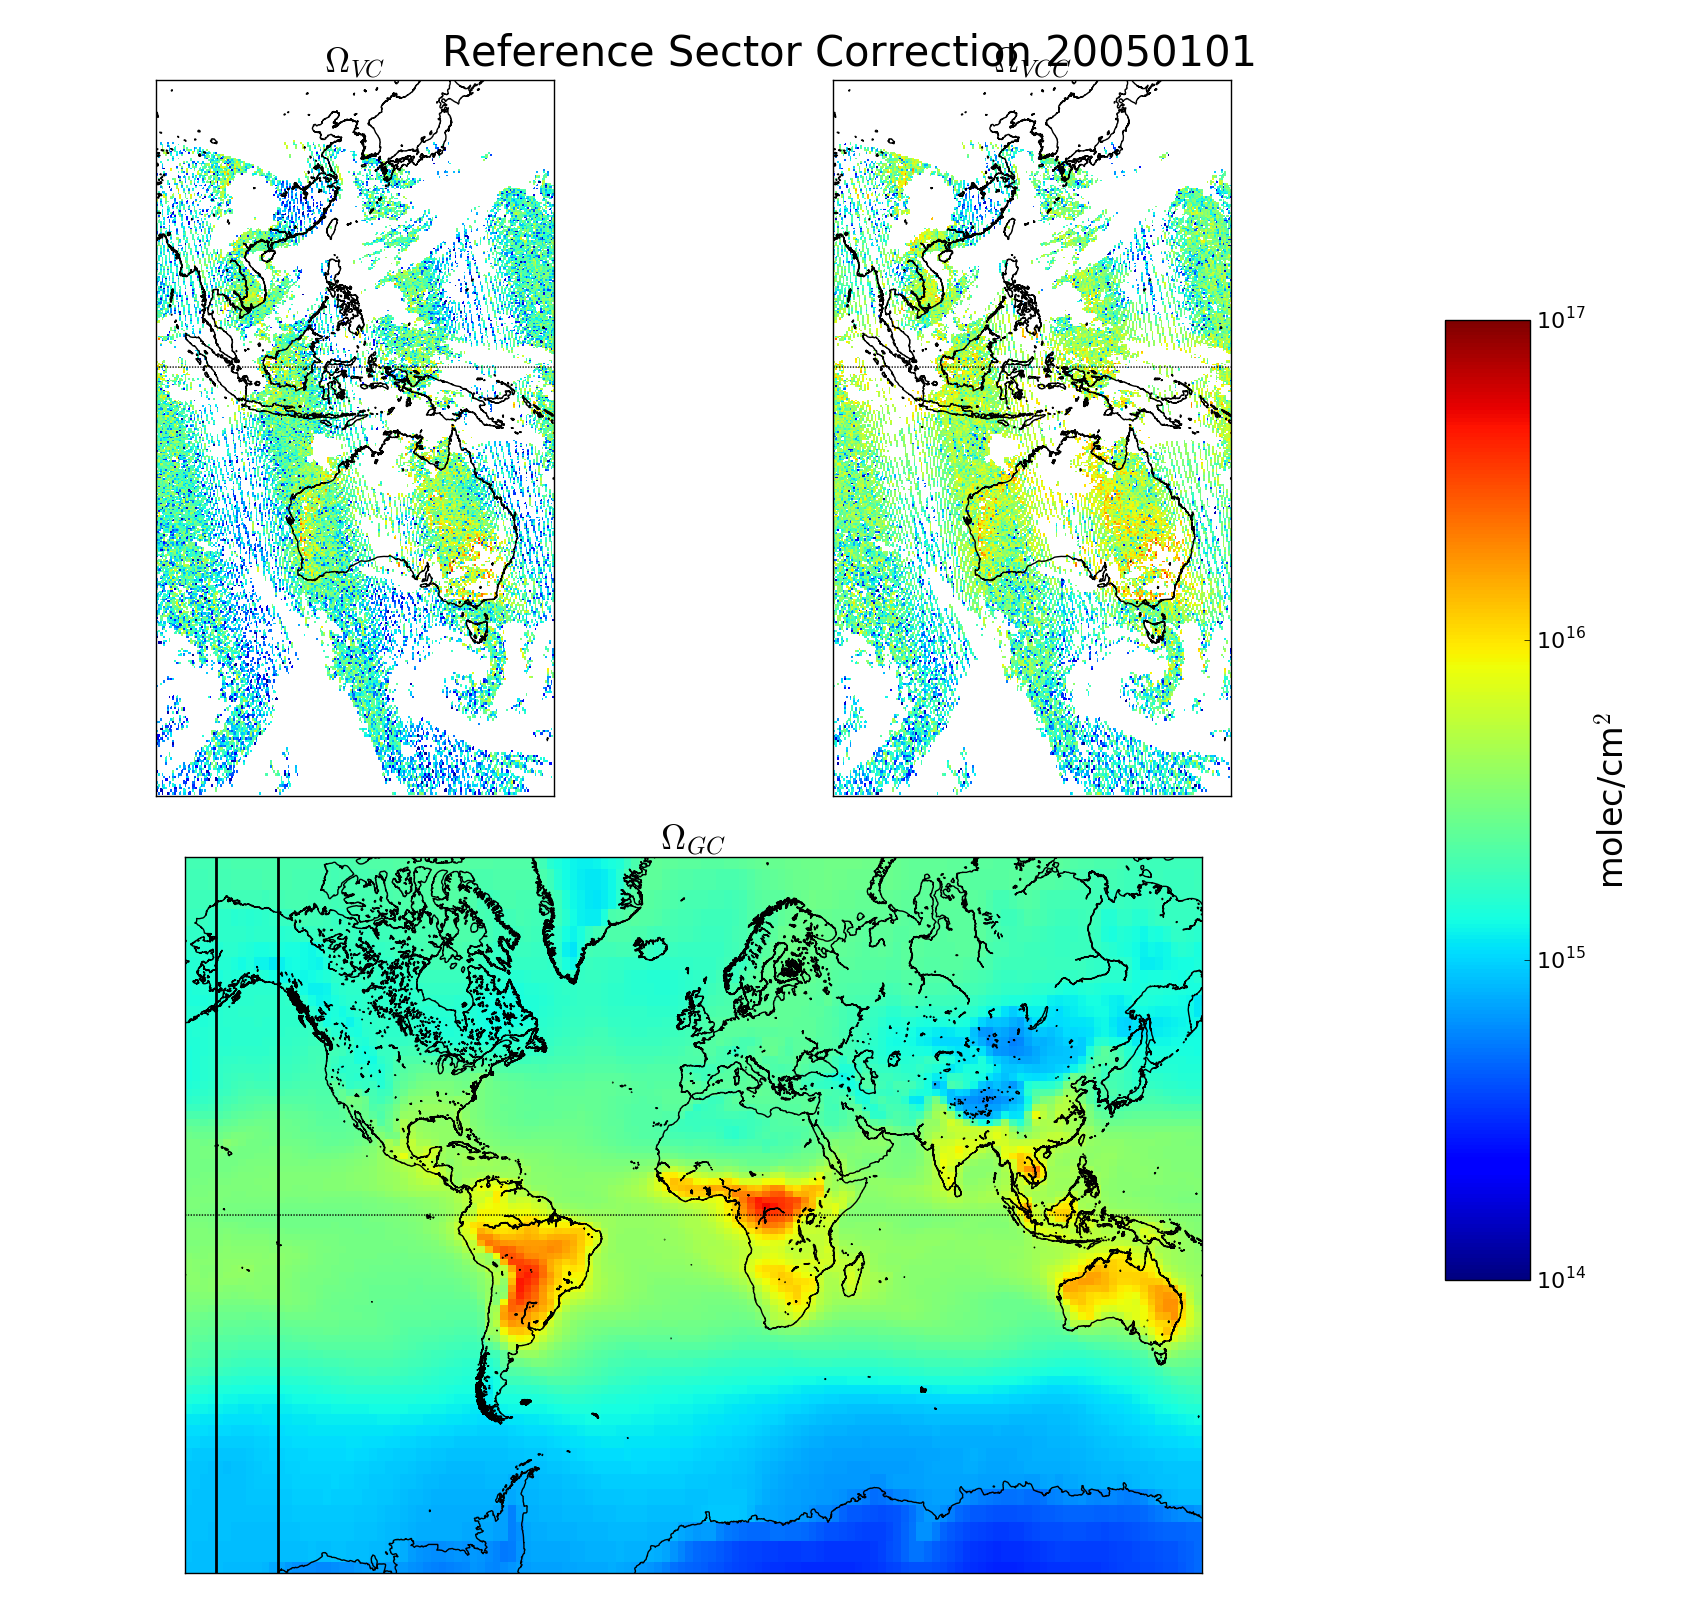
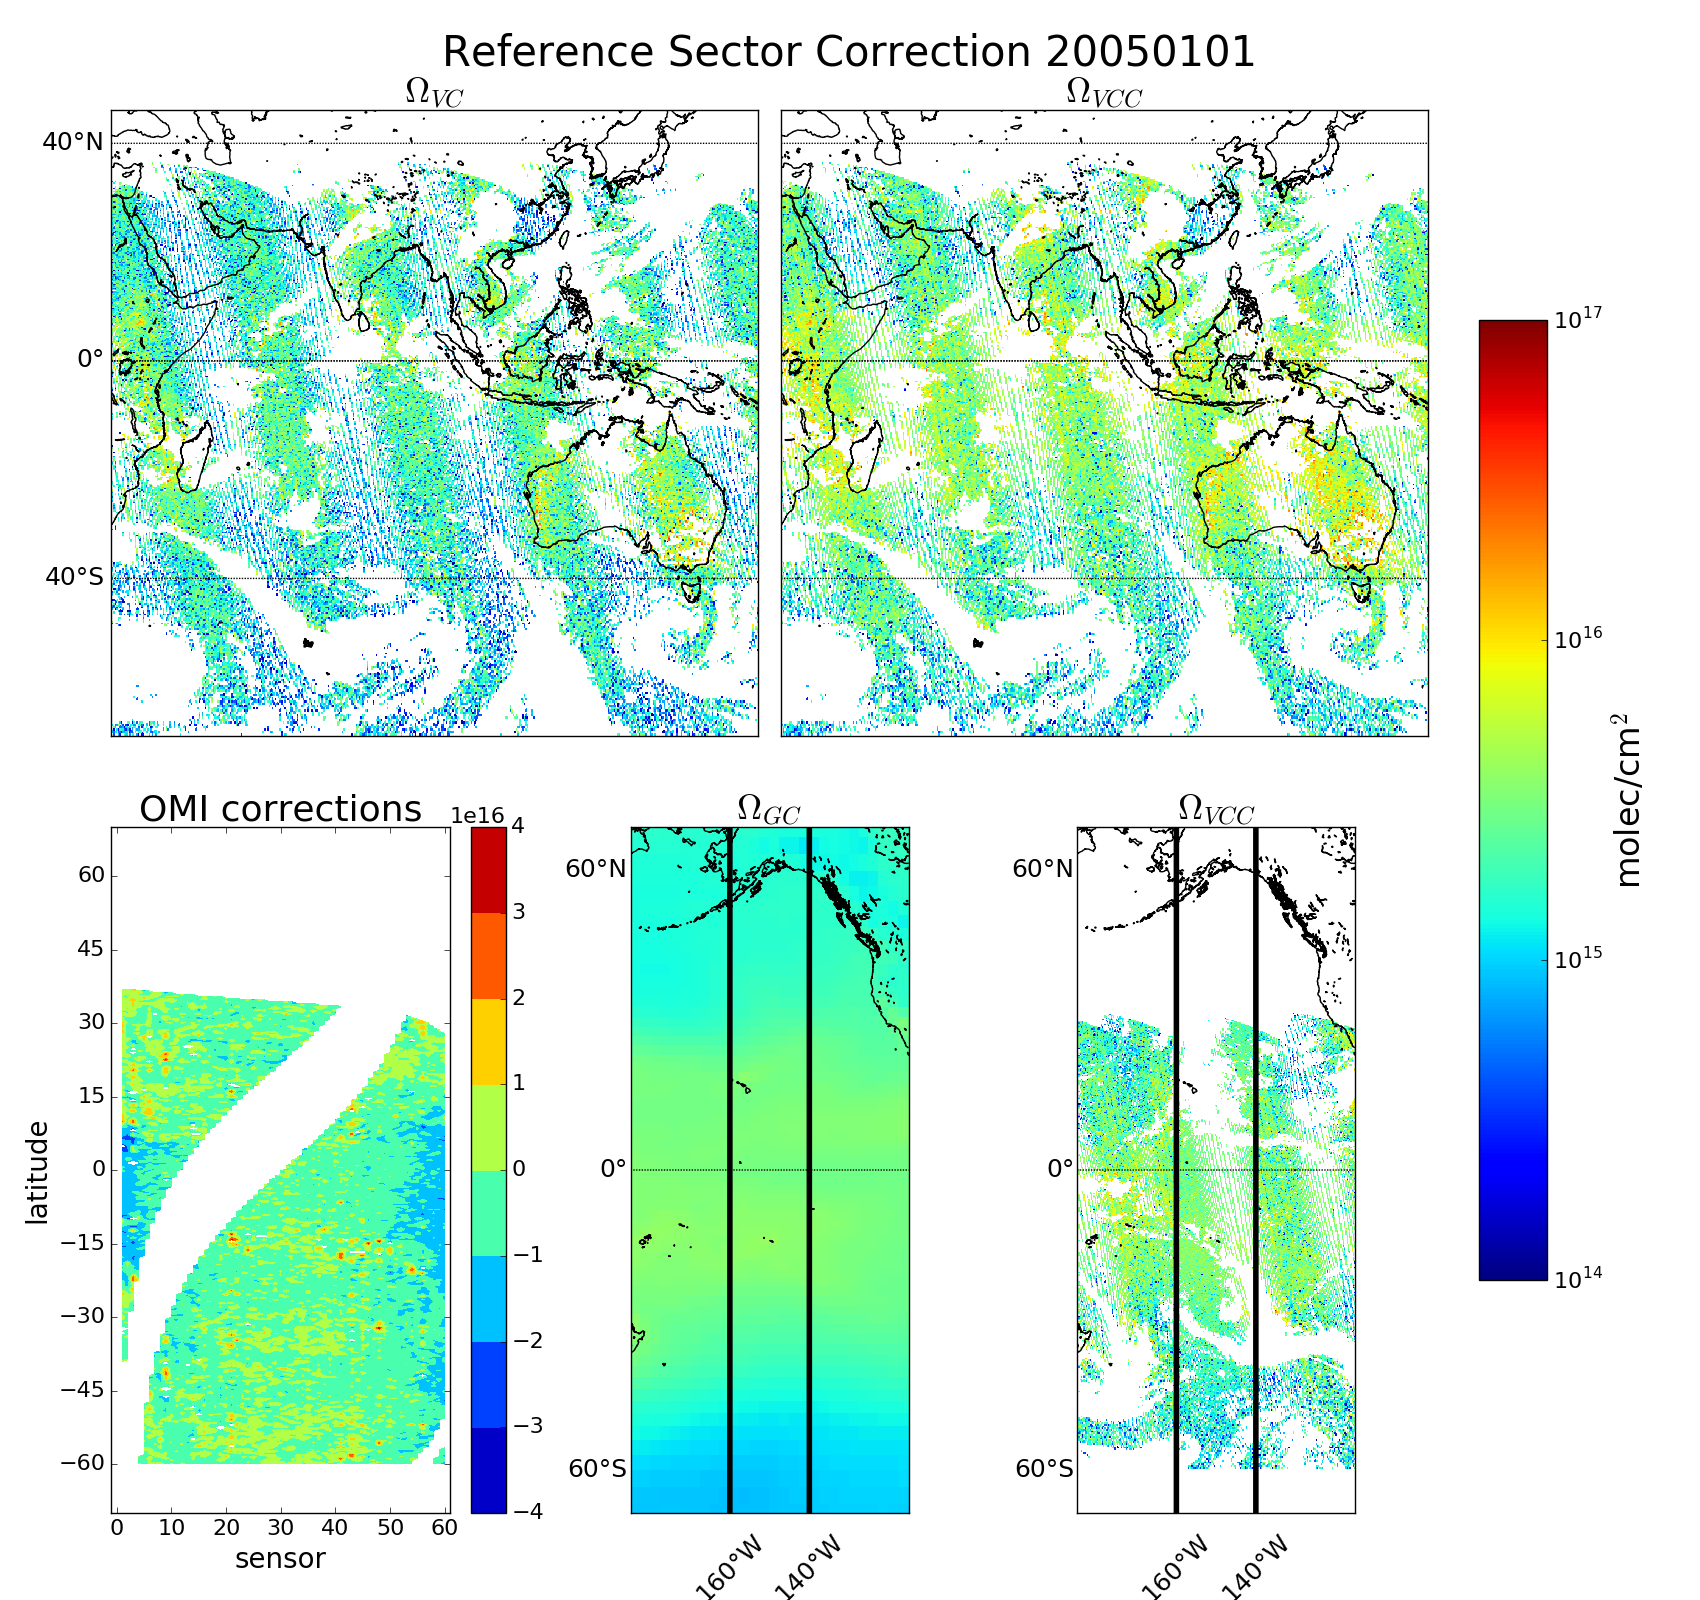
Finished RSC summary plots.

diff --git a/tests.py b/tests.py
@@ -76,7 +76,7 @@ def createmap(data,lats,lons, vmin=5e13, vmax=1e17, latlon=True,
     else:
         latsnew,lonsnew=(lats,lons)
     cs=m.pcolormesh(lonsnew, latsnew, data, latlon=latlon, 
-                vmin=vmin,vmax=vmax,norm = LogNorm(), clim=(vmin,vmax))
+                    vmin=vmin,vmax=vmax,norm = LogNorm(), clim=(vmin,vmax))
     cs.cmap.set_under('white')
     cs.cmap.set_over('pink')
     cs.set_clim(vmin,vmax)
@@ -138,7 +138,6 @@ def plot_rec(bmap, inlimits, color=None, linewidth=None):
                   ul[1], ur[1],
                   ur[1], lr[1],
                   lr[1], ll[1]])
-    print(xs,ys)
     x,y=bmap(xs,ys)
     bmap.plot(x, y, latlon=False, color=color, linewidth=linewidth)
     
@@ -178,39 +177,62 @@ def Summary_RSC(date=datetime(2005,1,1), oneday=True):
     lats,lons=dat.latitude,dat.longitude
     # read geos chem data
     gcdat=fio.read_gchcho(date)
+    gchcho=gcdat.VC_HCHO*1e-4
     gclats,gclons=gcdat.lats,gcdat.lons
     # plot 1) showing VCs before and after correction
     vmin,vmax=1e14,1e17
     f=plt.figure(0,figsize=(17,16))
-    titles=[Ovc,Ovcc,Ogc]
-    sbplots=[221,222,212]
-    lims=[(-60,30,45,160),(-60,30,45,160),(-75,-170,75,160)]
-    for i,arr in enumerate([dat.VC_GC,dat.VCC,gcdat.VC_HCHO*1e-4]):
-        plt.subplot(sbplots[i])
-        ilats=[lats,gclats][i==2]
-        ilons=[lons,gclons][i==2]
-        m,cs=createmap(arr,ilats,ilons,colorbar=False,vmin=vmin,vmax=vmax,
-                       lllat=lims[i][0],lllon=lims[i][1],urlat=lims[i][2],urlon=lims[i][3])
-        plt.title(titles[i],fontsize=25)
-        if i==2:
-            # rectangle around RSC
-            plot_rec(m,dat.RSC_region,color='k',linewidth=4)
+    lims=(-60,30,45,160)
+    lim2=(-65,-185,65,-115)
+    for i,arr in enumerate([dat.VC_GC,dat.VCC]):
+        #plt.subplot(221+i)
+        plt.subplot2grid((2, 6), (0, 3*i), colspan=3)
+        m,cs=createmap(arr,lats,lons,colorbar=False,vmin=vmin,vmax=vmax,
+                       lllat=lims[0],lllon=lims[1],urlat=lims[2],urlon=lims[3])
+        plt.title([Ovc,Ovcc][i],fontsize=25)
+        m.drawparallels([-40,0,40],labels=[1-i,0,0,0],linewidth=1.0)
+        
     
-    plt.suptitle('Reference Sector Correction '+ymdstr,fontsize=30)
-    plt.tight_layout()
-    plt.subplots_adjust(top=0.95)
-    f.subplots_adjust(right=0.8)
-    cbar_ax = f.add_axes([0.85, 0.20, 0.05, 0.6])
+    # plot c) RSC by sensor and latitude
+    plt.subplot2grid((2, 6), (1, 0), colspan=2)
+    cp=plt.contourf(np.arange(1,60.1,1),dat.RSC_latitude,dat.RSC)
+    plt.colorbar(cp)
+    plt.xlabel('sensor'); plt.ylabel('latitude')
+    plt.title('OMI corrections')
+    plt.xlim([-1,61]);plt.ylim([-70,70])
+    plt.yticks(np.arange(-60,61,15))
+    # plt.imshow(dat.RSC, extent=(0,60,-65,65), interpolation='nearest', cmap=cm.jet, aspect="auto")
+    
+    # plot d,e) RSC effect
+    for i,arr in enumerate([gchcho, dat.VCC]):
+        plt.subplot2grid((2, 6), (1, 2*i+2), colspan=2)
+        m,cs=createmap(arr,[gclats,lats][i],[gclons,lons][i],colorbar=False,vmin=vmin,vmax=vmax,
+                       lllat=lim2[0],lllon=lim2[1],urlat=lim2[2],urlon=lim2[3])
+        plt.title([Ogc,Ovcc][i],fontsize=25)
+        # rectangle around RSC
+        #plot_rec(m,dat.RSC_region,color='k',linewidth=4)
+        meridians=m.drawmeridians([-160,-140],labels=[0,0,0,1], linewidth=4.0, dashes=(None,None))
+        m.drawparallels([-60,0,60],labels=[1,0,0,0],linewidth=0.0)
+        for m in meridians:
+            try:
+                meridians[m][1][0].set_rotation(45)
+            except:
+                pass
+    
+    f.suptitle('Reference Sector Correction '+ymdstr,fontsize=30)
+    f.tight_layout()
+    f.subplots_adjust(top=0.95)
+    f.subplots_adjust(right=0.84)
+    cbar_ax = f.add_axes([0.87, 0.20, 0.04, 0.6])
     cb=f.colorbar(cs,cax=cbar_ax)
     cb.set_ticks(np.logspace(13,17,5))
     cb.set_label('molec/cm$^2$',fontsize=24)
     
-    pltname='pictures/Summary_RSC_Effect_%s.png'%ymdstr
+    pltname='pictures/Summary_RSC_Effect%s_%s.png'%(['8d',''][oneday],ymdstr)
     f.savefig(pltname)
     print ('%s saved'%pltname)
     plt.close(f)
-    # plot 2:
-    print("RSC_Summary() plot two to be implemented")
+
 
 def check_timeline():
     '''
@@ -1041,7 +1063,6 @@ def check_flags_and_entries(day=datetime(2005,1,1), oneday=True):
 if __name__ == '__main__':
     print("Running tests.py")
     InitMatplotlib()
-    Summary_RSC()
     #test_fires_fio()
     #test_fires_removed()
     #test_amf_calculation() # Check the AMF stuff
@@ -1051,8 +1072,9 @@ if __name__ == '__main__':
     #dates=[ datetime(2005,1,1) + timedelta(days=d) for d in [112] ]
     #dates=[ datetime(2005,1,1) ]
     dates=[ ]
-    for day in dates:
-        for oneday in [True, False]:
+    for oneday in [True, False]:
+        Summary_RSC(oneday=oneday)
+        for day in dates:
             #test_reprocess_corrected(date=day, oneday=oneday)
             #test_reprocess_corrected(date=day, oneday=oneday, lllat=-50,lllon=100,urlat=-10,urlon=170, pltname="zoomed")
             for aus_only in [True, False]:
